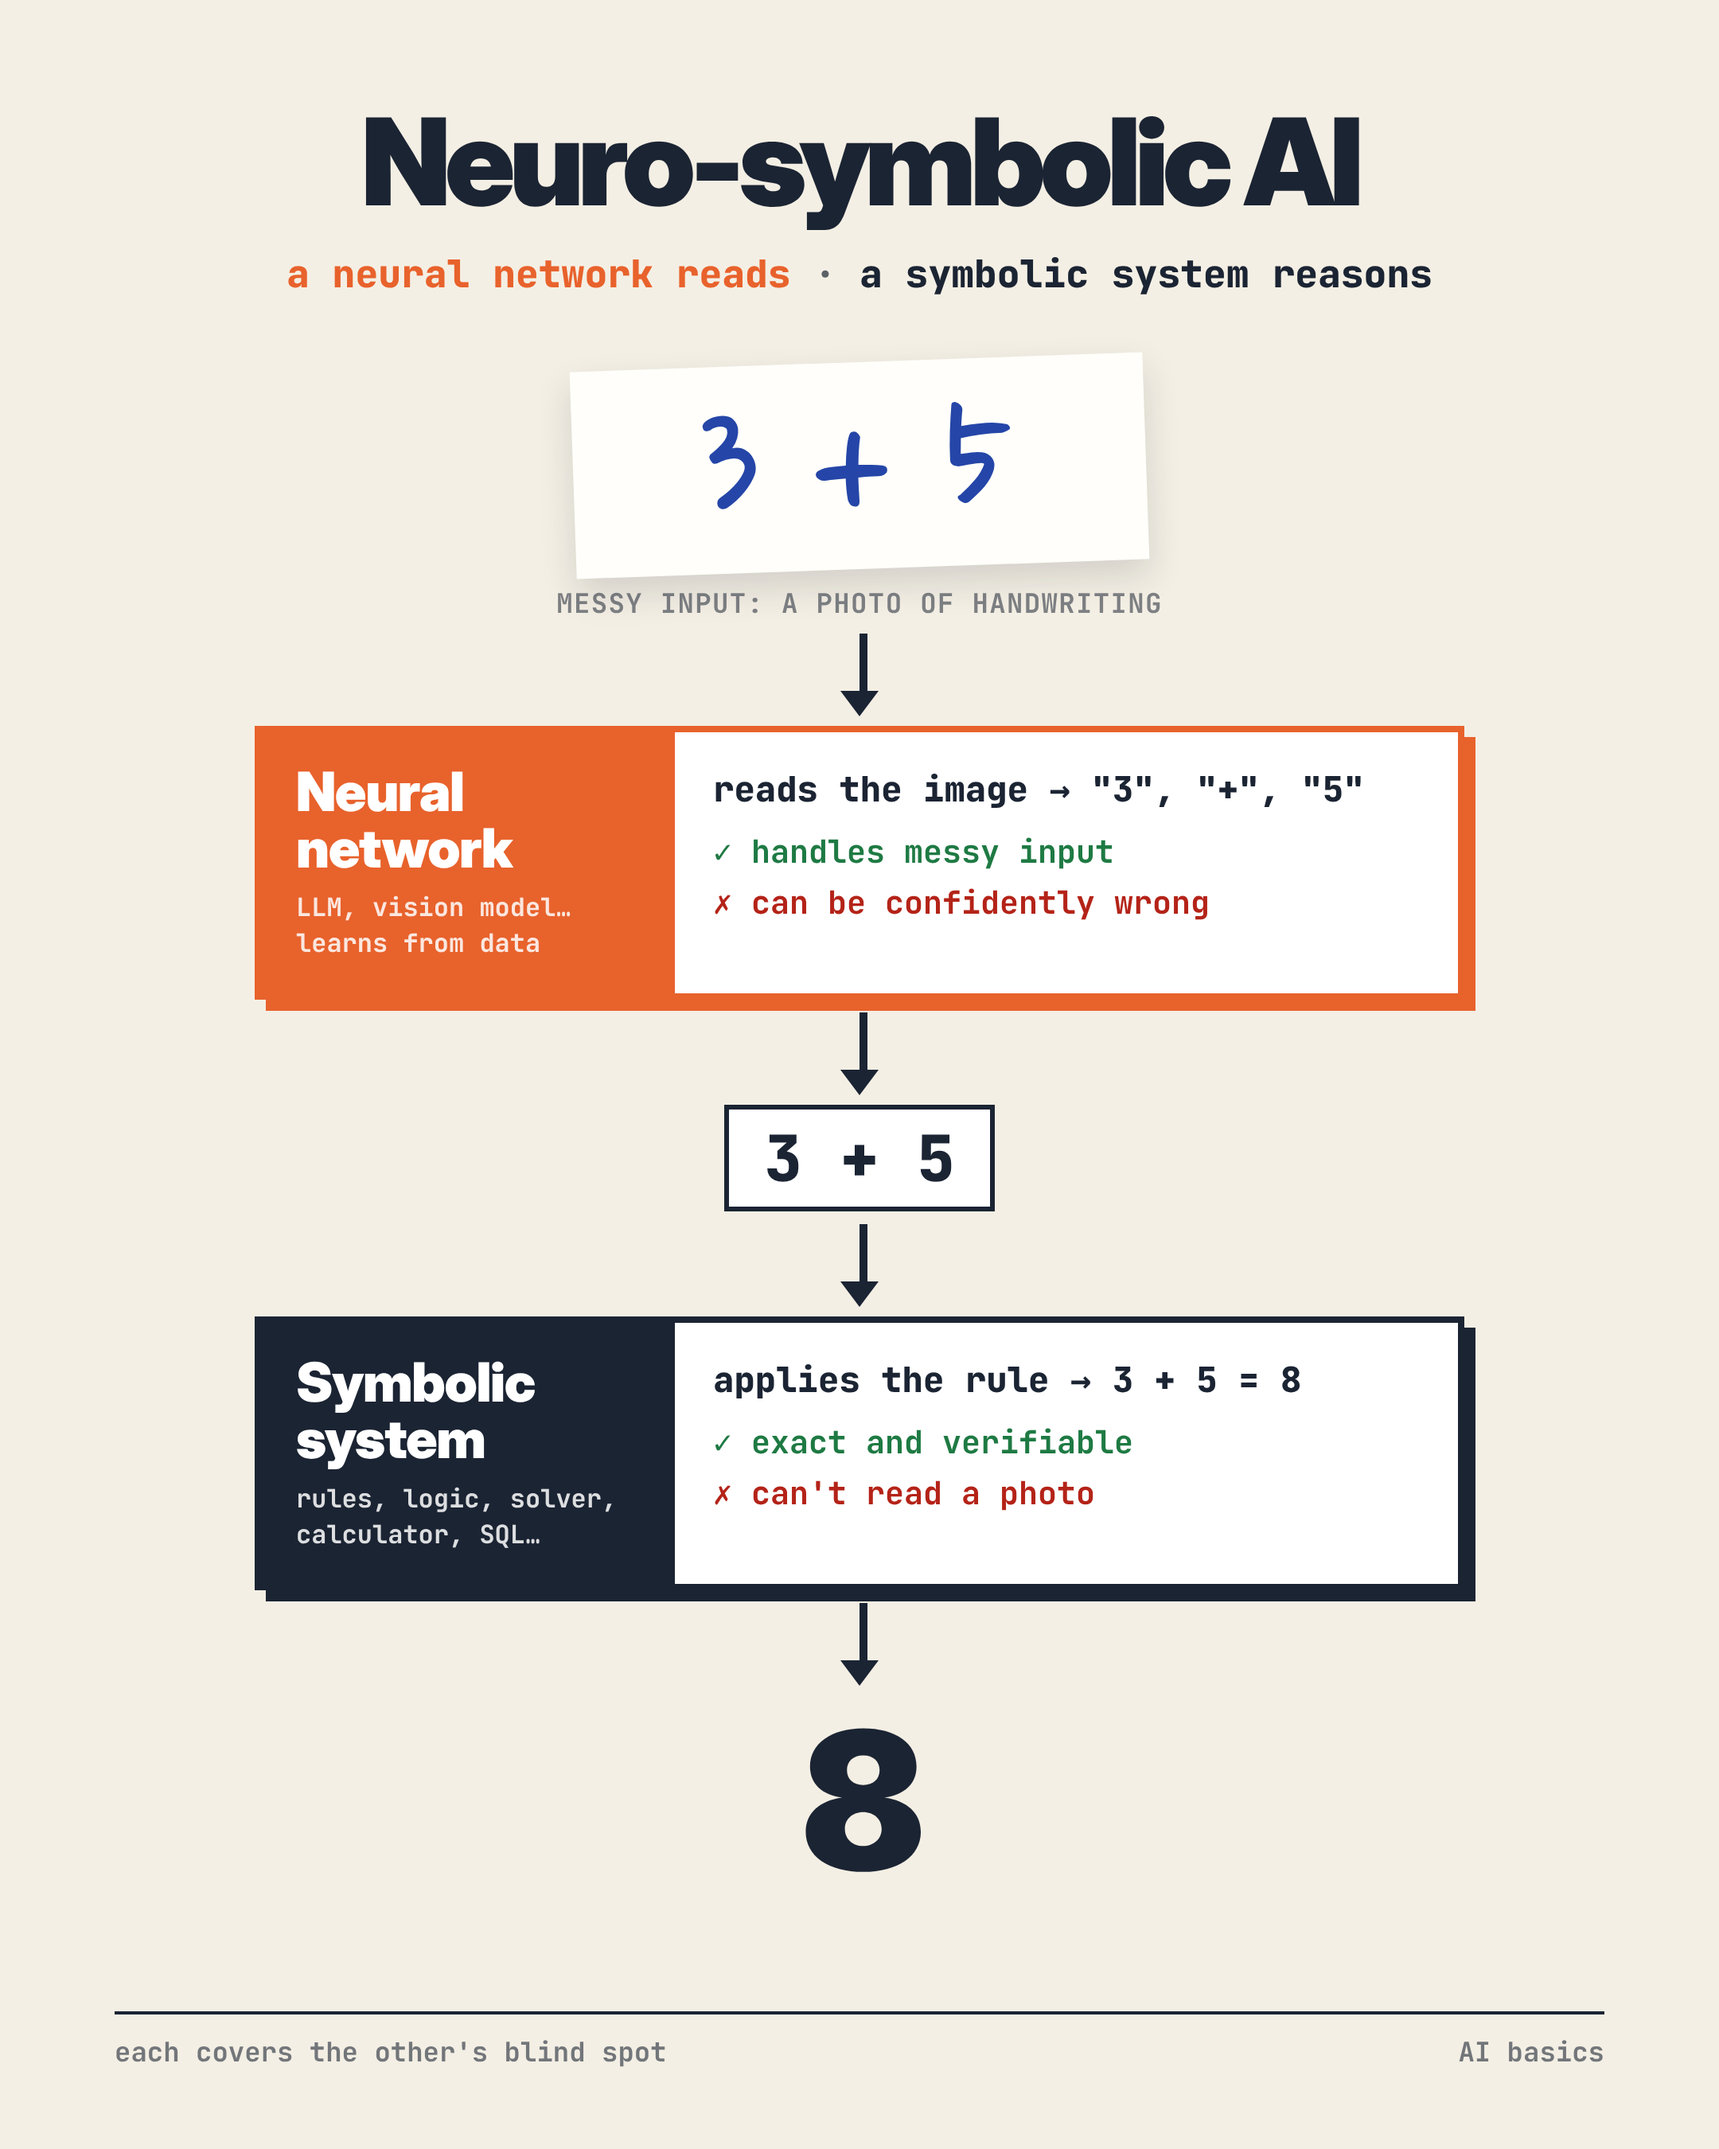
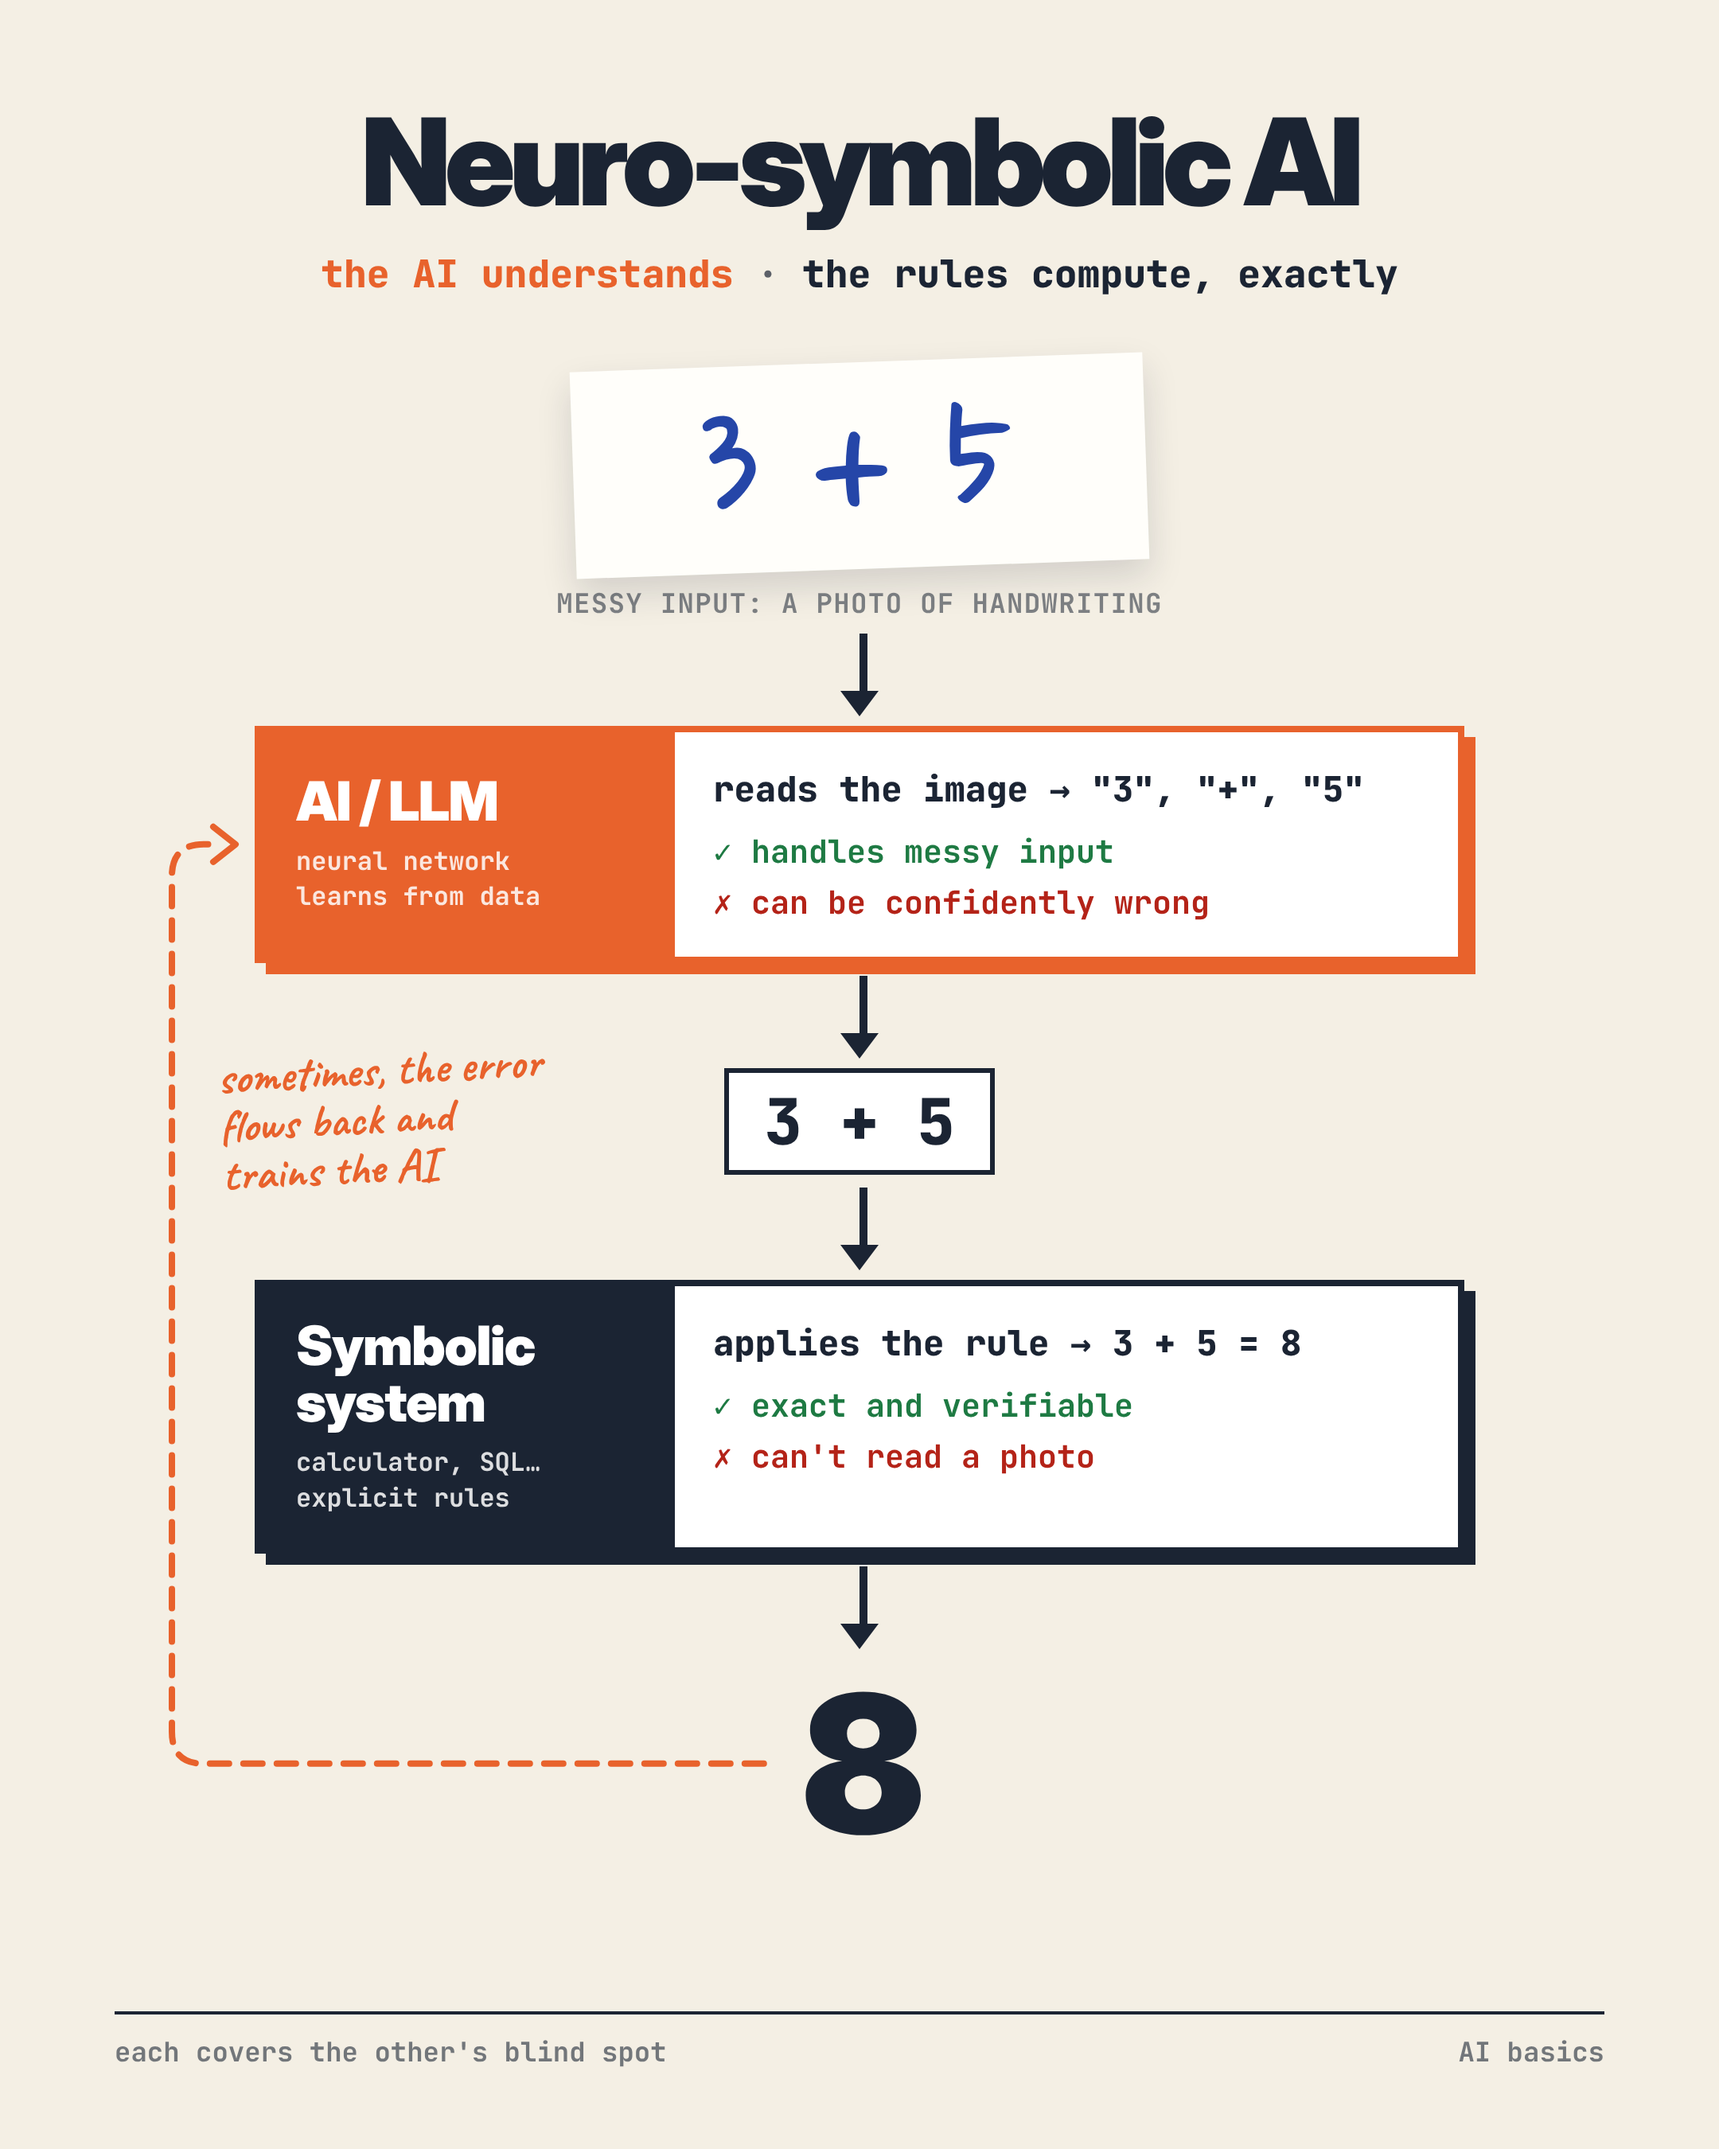
chore(linkedin): neuro-symbolic image with learning loop
Claude-Session: https://claude.ai/code/session_01MTwVEbBa7ZThnZ6UTC9WgS

Changed region(s): [[0.1241, 0.3422, 0.8685, 0.8711], [0.1861, 0.1244, 0.8375, 0.1556]]

diff --git a/linkedin/neurosymbolic/source.html b/linkedin/neurosymbolic/source.html
@@ -1,6 +1,6 @@
 <!doctype html>
 <html><head><meta charset="utf-8">
-<link href="https://fonts.googleapis.com/css2?family=JetBrains+Mono:wght@500;700;800&family=Nanum+Pen+Script&display=block" rel="stylesheet">
+<link href="https://fonts.googleapis.com/css2?family=JetBrains+Mono:wght@500;700;800&family=Caveat:wght@700&family=Nanum+Pen+Script&display=block" rel="stylesheet">
 <style>
 /* Concept palette: paper, ink = symbolic, orange = neural */
 :root{--paper:#F4EFE4;--ink:#1B2433;--accent:#E8622C;--pen:#2546A8;}
@@ -25,29 +25,39 @@ h1{font:900 76px/1.05 "Inter Display",Inter,sans-serif;letter-spacing:-.05em}
 .box .d .ok{color:#1E7A43}.box .d .ko{color:#B42318}
 .box .d .does{font-weight:800;font-size:22px;margin-bottom:6px}
 .chip{display:inline-block;margin:0 auto;font:800 40px "JetBrains Mono",monospace;border:3px solid var(--ink);background:#fff;padding:4px 22px}
+.learn{position:absolute;left:66px;top:-14px;text-align:left;font:700 29px/1.05 Caveat,cursive;color:var(--accent);transform:rotate(-3deg)}
 .result{font:900 120px/1 "Inter Display",Inter,sans-serif;letter-spacing:-.04em;margin-top:6px}
 .foot{position:absolute;left:72px;right:72px;bottom:50px;display:flex;justify-content:space-between;font:600 17px "JetBrains Mono",monospace;color:rgba(27,36,51,.6);border-top:2px solid var(--ink);padding-top:12px}
 </style></head><body>
 <h1>Neuro-symbolic AI</h1>
-<div class="sub"><b>a neural network reads</b> · <i>a symbolic system reasons</i></div>
+<div class="sub"><b>the AI understands</b> · <i>the rules compute, exactly</i></div>
 
 <div class="paper"><span style="transform:rotate(-6deg)">3</span>&nbsp;<span style="transform:rotate(4deg) translateY(4px)">+</span>&nbsp;<span style="transform:rotate(-3deg)">5</span></div>
 <div class="cap">messy input: a photo of handwriting</div>
 
 <div class="down"></div>
 <div class="box" style="--c:#E8622C">
-  <div class="t"><b>Neural network</b><small>LLM, vision model…<br>learns from data</small></div>
+  <div class="t"><b>AI / LLM</b><small>neural network<br>learns from data</small></div>
   <div class="d"><div class="does">reads the image → "3", "+", "5"</div><span class="ok">✓ handles messy input</span><br><span class="ko">✗ can be confidently wrong</span></div>
 </div>
 <div class="down"></div>
-<div class="chip">3 + 5</div>
+<div style="position:relative"><div class="chip">3 + 5</div><div class="learn">sometimes, the error<br>flows back and<br>trains the AI</div></div>
 <div class="down"></div>
 <div class="box" style="--c:#1B2433">
-  <div class="t"><b>Symbolic system</b><small>rules, logic, solver,<br>calculator, SQL…</small></div>
+  <div class="t"><b>Symbolic system</b><small>calculator, SQL…<br>explicit rules</small></div>
   <div class="d"><div class="does">applies the rule → 3 + 5 = 8</div><span class="ok">✓ exact and verifiable</span><br><span class="ko">✗ can't read a photo</span></div>
 </div>
 <div class="down"></div>
-<div class="result">8</div>
+<div class="result"><span id="eight">8</span></div>
 
 <div class="foot"><span>each covers the other's blind spot</span><span>AI basics</span></div>
+<svg id="loop" style="position:absolute;left:0;top:0;width:1080px;height:1350px;overflow:visible;pointer-events:none"></svg>
+<script>
+document.fonts.ready.then(()=>{
+  const r=document.getElementById('eight').getBoundingClientRect(), n=document.querySelectorAll('.box')[0].getBoundingClientRect();
+  const x=108, y0=r.top+r.height/2, y1=n.top+n.height/2, xr=r.left-24, xn=n.left-10;
+  document.getElementById('loop').innerHTML=`<path d="M${xr},${y0} L${x+20},${y0} Q${x},${y0} ${x},${y0-20} L${x},${y1+20} Q${x},${y1} ${x+20},${y1} L${xn-14},${y1}" stroke="#E8622C" stroke-width="4" stroke-dasharray="12 9" fill="none" stroke-linecap="round"/>
+  <path d="M${xn-16},${y1-11} L${xn-2},${y1} L${xn-16},${y1+11}" stroke="#E8622C" stroke-width="4" fill="none" stroke-linecap="round" stroke-linejoin="round"/>`;
+});
+</script>
 </body></html>
